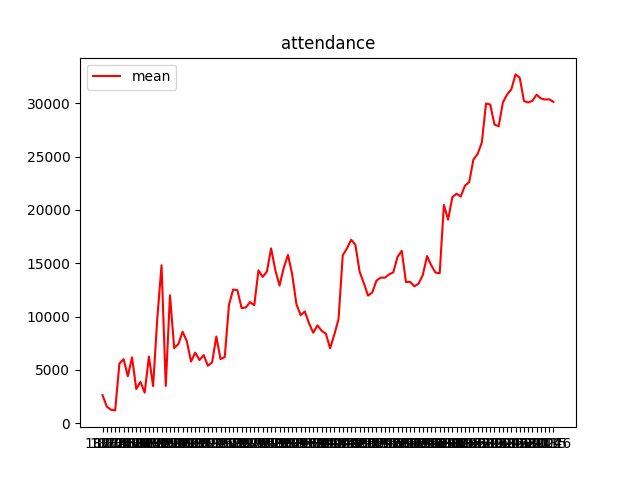
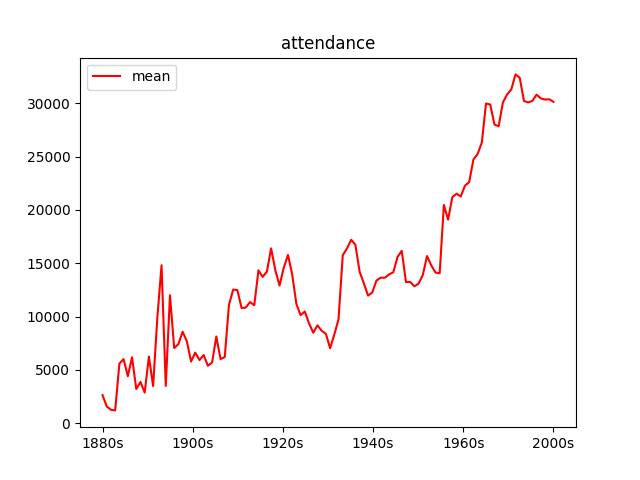
cleanup graphs

Changed region(s): [[0.125, 0.9062, 0.9062, 0.9375]]

diff --git a/final-project/src/plots/meta/event_plot.py b/final-project/src/plots/meta/event_plot.py
@@ -1,27 +1,20 @@
 import matplotlib.pyplot as plt
 import numpy as np
 
+
 def attendance_per_year(df):
     df = df[df['attendance'].notna()]
 
     means_v_score = df.groupby(['date_year'])['attendance'].mean().to_dict()
     means_v_score = {str(key): value for key, value in means_v_score.items()}
 
-    print('means_v_score: ', means_v_score)
+    x_vals = list(means_v_score.keys())
+    plt.plot(x_vals, means_v_score.values(), color='red', label='mean')
 
-    plt.plot(means_v_score.keys(), means_v_score.values(), color='red', label='mean')
-    plt.title('attendance')
-    plt.legend()
+    # plt.xticks(x_vals[::5]) # only display every nth value on the x axis
+    decades = sorted(df['date_decade'].unique())[1::2]
+    plt.xticks(np.linspace(0, len(x_vals) - 1, len(decades)), decades)  # Spread labels evenly
 
-
-def attendance_per_decade(df):
-    df = df[df['attendance'].notna()]
-
-    means_v_score = df.groupby(['date_decade'])['attendance'].mean().to_dict()
-    means_v_score = {str(key): value for key, value in means_v_score.items()}
-
-    # TODO
-    plt.scatter(means_v_score.keys(), means_v_score.values(), color='red', label='mean')
     plt.title('attendance')
     plt.legend()
 
@@ -34,5 +27,3 @@ def data_per_year(df):
 def data_per_decade(df):
     data_per_decade = df.groupby(['date_decade']).size()
     plt.plot(data_per_decade)
-
-

diff --git a/final-project/src/vis_main.py b/final-project/src/vis_main.py
@@ -1,14 +1,14 @@
 from src.utils.graph_data_io import read_game_logs, export_graph
 from src.plots.score import score_plot
+from src.plots.meta import event_plot
 
 df = read_game_logs()
 
-# export_graph(score_plot.v_score_count, df)
-# export_graph(score_plot.h_score_count, df)
-# export_graph(score_plot.vh_score_comparison, df)
+export_graph(score_plot.v_score_count, df)
+export_graph(score_plot.h_score_count, df)
+export_graph(score_plot.vh_score_comparison, df)
 export_graph(score_plot.winning_teams, df)
 
-# export_graph(event_plot.data_per_year, df)
-# export_graph(event_plot.data_per_decade, df)
-# export_graph(event_plot.attendance_per_year, df)
-# export_graph(event_plot.attendance_per_decade, df)
+export_graph(event_plot.data_per_year, df)
+export_graph(event_plot.data_per_decade, df)
+export_graph(event_plot.attendance_per_year, df)

diff --git a/final-project/src/utils/processing_utils.py b/final-project/src/utils/processing_utils.py
@@ -1,12 +1,6 @@
-import matplotlib.pyplot as plt
 import numpy as np
-import pandas as pd
 
 MIN_TEAM_LIFETIME_YEARS = 10
-
-
-# TODO create custom color pallet etc.
-
 
 def extract_win_stats(input_df):
     home_games_won_per_year = {}
@@ -54,3 +48,16 @@ def extract_win_stats(input_df):
         overall_games_won_per_year,\
         overall_games_won_total_sorted, \
         average_wins_per_year
+
+
+# TODO check if this function is actually needed somewhere - else delete
+def calc_years_without_data(df):
+    available_years = df['date_year'].unique()
+    start = min(available_years)
+    end = max(available_years)
+
+    total_years = np.arange(start, end + 1)
+    out = list(set(total_years) - set(available_years))
+    print('unavailable years: ', out)
+
+    return out

diff --git a/final-project/src/utils/styling_utils.py b/final-project/src/utils/styling_utils.py
@@ -1,0 +1,21 @@
+import matplotlib.pyplot as plt
+import numpy as np
+import pandas as pd
+
+
+# TODO create custom color pallet etc.
+
+def draw_rectangle(block_dim):
+    x_start = block_dim[0][0]
+    x_end = block_dim[0][1]
+    y_start = block_dim[1][0]
+    y_end = block_dim[1][1]
+
+    # rect = plt.Rectangle((x_start, y_start), x_end - x_start, y_end - y_start,
+    #                      fill=True, facecolor='#f2f2f2', zorder=10, edgecolor='#dadada')
+    rect = plt.Rectangle((x_start, y_start), x_end - x_start, y_end - y_start,
+                         fill=True, facecolor='white', zorder=10, edgecolor='white')
+
+    # get current axis instance
+    ax = plt.gca()
+    ax.add_patch(rect)

diff --git a/final-project/src/plots/score/score_plot.py b/final-project/src/plots/score/score_plot.py
@@ -2,7 +2,8 @@ import matplotlib.pyplot as plt
 import numpy as np
 from matplotlib import cm
 
-from ...utils.graph_utils import extract_win_stats
+from ...utils.processing_utils import extract_win_stats, calc_years_without_data
+from ...utils.styling_utils import draw_rectangle
 
 
 def v_score_count(df):
